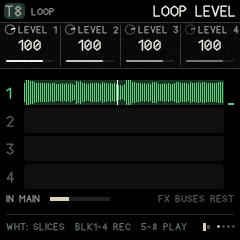
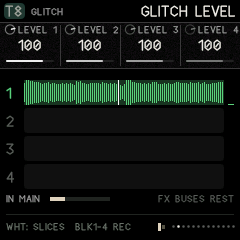
GLITCH LOOPER: the looper's new name; sections set either way
The LOOP kind is now GLITCH (GLT in the track columns), its pages GLITCH
LEVEL, PITCH, SPEED, INPUT and TRIGS.

On GLITCH TRIGS, holding a step and tapping another sets a section from the
left one to the right one, both included, in either order: the trig goes on
its first step with RANGE reaching the last, and other trigs of the same
lane and kind inside it are removed. The step keys light the chosen lane's
trigs of the chosen kind along their sections.

Claude-Session: https://claude.ai/code/session_01BwzGhPZLDZkrxZk5dy3Yyf

diff --git a/firmware/app/rv_ui.c b/firmware/app/rv_ui.c
@@ -79,10 +79,10 @@ static const page_t pages[] = {
     {SEC_VOICE, V_COMP, PIC_COMP, PR_NONE, "COMP", {TP(TP_S0), TP(TP_S1), TP(TP_S2), TP(TP_S3)}},
     {SEC_VOICE, V_COMP, PIC_COMP, PR_NONE, "COMP 2", {TP(TP_S4), TP(TP_S5), TP(TP_KIND), NO}},
     /* LOOP (a TEST build): four lanes; the keys record, play and slice them (rv_loop.c) */
-    {SEC_VOICE, V_LOOP, PIC_LOOP, PR_NONE, "LOOP LEVEL", {TP(TP_S0), TP(TP_S1), TP(TP_S2), TP(TP_S3)}},
-    {SEC_VOICE, V_LOOP, PIC_LOOP, PR_NONE, "LOOP PITCH", {TP(TP_S4), TP(TP_S5), TP(TP_S6), TP(TP_S7)}},
-    {SEC_VOICE, V_LOOP, PIC_LOOP, PR_NONE, "LOOP SPEED", {TP(TP_S8), TP(TP_S9), TP(TP_S10), TP(TP_S11)}},
-    {SEC_VOICE, V_LOOP, PIC_LOOP, PR_NONE, "LOOP INPUT", {TP(TP_S12), TP(TP_S13), TP(TP_S14), TP(TP_S15)}},
+    {SEC_VOICE, V_LOOP, PIC_LOOP, PR_NONE, "GLITCH LEVEL", {TP(TP_S0), TP(TP_S1), TP(TP_S2), TP(TP_S3)}},
+    {SEC_VOICE, V_LOOP, PIC_LOOP, PR_NONE, "GLITCH PITCH", {TP(TP_S4), TP(TP_S5), TP(TP_S6), TP(TP_S7)}},
+    {SEC_VOICE, V_LOOP, PIC_LOOP, PR_NONE, "GLITCH SPEED", {TP(TP_S8), TP(TP_S9), TP(TP_S10), TP(TP_S11)}},
+    {SEC_VOICE, V_LOOP, PIC_LOOP, PR_NONE, "GLITCH INPUT", {TP(TP_S12), TP(TP_S13), TP(TP_S14), TP(TP_S15)}},
     {SEC_VOICE, V_SRC0, PIC_SOURCE, PR_SOUND, "SOURCE 1", {TP(TP_S0), TP(TP_S1), TP(TP_S2), TP(TP_S3)}},
     {SEC_VOICE, V_SRC1, PIC_SOURCE, PR_SOUND, "SOURCE 2", {TP(TP_S4), TP(TP_S5), TP(TP_S6), TP(TP_S7)}},
     {SEC_VOICE, V_SRC2, PIC_SOURCE, PR_SOUND, "SOURCE 3", {TP(TP_S8), TP(TP_S9), TP(TP_S10), TP(TP_S11)}},
@@ -152,7 +152,7 @@ static const page_t pages[] = {
     {SEC_ARP, V_ALL, PIC_ARP, PR_NONE, "ARP 2", {TP(TP_ARPGATE), TP(TP_ARPREP), TP(TP_ARPCHNC), NO}},
 
     {SEC_SEQ, V_COMP, PIC_CLOCK, PR_NONE, "TEMPO", {GP(GP_TEMPO), GP(GP_SWING), NO, NO}},   /* (a COMP track has no steps) */
-    {SEC_SEQ, V_LOOP, PIC_LOOPSEQ, PR_STEP, "LOOP TRIGS", {{K_LP, 0}, {K_LP, 1}, {K_LP, 2}, TP(TP_LEN)}},   /* record and play trigs, per lane, with a RANGE */
+    {SEC_SEQ, V_LOOP, PIC_LOOPSEQ, PR_STEP, "GLITCH TRIGS", {{K_LP, 0}, {K_LP, 1}, {K_LP, 2}, TP(TP_LEN)}},   /* record and play trigs, per lane, with a RANGE */
     {SEC_SEQ, V_LOOP, PIC_LOOPSEQ, PR_STEP, "TRIG CHANCE", {SF(SF_CHANCE), SF(SF_COND), NO, NO}},
     {SEC_SEQ, V_LOOP, PIC_CLOCK, PR_NONE, "TEMPO", {GP(GP_TEMPO), GP(GP_SWING), TP(TP_LEN), TP(TP_RATE)}},
     {SEC_SEQ, V_KIT, PIC_DRUM, PR_PATTERN, "DRUM", {LF(LF_SEL), LF(LF_LEN), LF(LF_RATE), LF(LF_CHANCE)}},   /* (SWING: GLO > CLOCK) */
@@ -1767,7 +1767,7 @@ static void knob_turn(int i, int d)
             nv += d > 0 ? 1 : -1;                     /* (COMP is T8's alone) */
         if (k.kind == K_TP && k.id == TP_KIND && nv >= KIND_LOOP && other_loop_track(ui.track)) {
             nv = rv.tp[ui.track][TP_KIND];            /* (one LOOP track at a time: it holds the buses' memory) */
-            msg("ONE LOOP TRACK AT A TIME");
+            msg("ONE GLITCH LOOPER AT A TIME");
         }
         kb_set(k, nv);
         page_follow(gp);
@@ -2133,30 +2133,45 @@ static void key_event(int k, int on)
                 if (loop_track_ui(t) && !ui.step_turned) {   /* LOOP: a trig on, or off; a step still held: a range */
                     int si = ui.step_page * 16 + wi, l = ui.lp_lane & 3, bit = 1 << (l + (ui.lp_type ? 4 : 0));
                     int len = clampi(rv.tp[t][TP_LEN], 1, RV_STEPS);
-                    if (ui.step_key_held) {           /* held first (a key further on): from it to this one */
-                        int f = 0, fs, n;
-                        rv_step *fsp;
+                    if (ui.step_key_held) {           /* a step held, then another: the section between them, both
+                                                       * ends in; it starts on the left one (its trig), the RANGE
+                                                       * reaches the right one, and no other trig of this lane and
+                                                       * kind is left inside it */
+                        int f = 0, fs, st, n, j;
+                        rv_step *sp;
                         while (!((ui.step_key_held >> f) & 1u))
                             f++;
                         fs = ui.step_page * 16 + f;
-                        n = ((si - fs) % len + len) % len + 1;
-                        fsp = step_ptr(fs);
-                        if (!(fsp->flags & ST_ON)) {
-                            fsp->chance = 100;
-                            fsp->cond = 0;
+                        st = si < fs ? si : fs;
+                        n = (si < fs ? fs - si : si - fs) + 1;
+                        if (st + n > len)
+                            n = len - st > 0 ? len - st : 1;
+                        for (j = st; j < st + n && j < RV_STEPS; j++) {   /* (the other trigs in it go) */
+                            sp = step_ptr(j);
+                            if (j == st || !(sp->note & bit))
+                                continue;
+                            sp->note &= (uint8_t)~bit;
+                            if (!sp->note)
+                                sp->flags &= (uint8_t)~ST_ON;
                         }
-                        fsp->note |= (uint8_t)bit;
-                        fsp->flags |= ST_ON;
-                        lp_range_set(fsp, l, n);
-                        ui.step_turned = 1;           /* (its own let-go is no tap) */
+                        sp = step_ptr(st);
+                        if (!(sp->flags & ST_ON)) {
+                            sp->chance = 100;
+                            sp->cond = 0;
+                            sp->note = 0;
+                        }
+                        sp->note |= (uint8_t)bit;
+                        sp->flags |= ST_ON;
+                        lp_range_set(sp, l, n);
+                        ui.step_turned = 1;           /* (the held one's let-go is no tap) */
                         {
                             char b[28] = "LANE ";
                             b[5] = (char)('1' + l);
                             b[6] = 0;
                             sx_cat(b, ui.lp_type ? " REC " : " PLAY ");
-                            sx_int(b + sx_cat(b, ""), fs + 1);
+                            sx_int(b + sx_cat(b, ""), st + 1);
                             sx_cat(b, "-");
-                            sx_int(b + sx_cat(b, ""), (fs + n - 1) % len + 1);
+                            sx_int(b + sx_cat(b, ""), st + n);
                             msg(b);
                         }
                         return;
@@ -3168,7 +3183,7 @@ static void pic_tracks(void)
         b[0] = (char)('1' + t);
         b[1] = 0;
         g_text_c(cx, PIC_Y + 2, &FONT_B, b, t == ui.track ? C_WHITE : kc);
-        g_text_c(cx, PIC_Y + 20, &FONT_T, rv.tp[t][TP_KIND] == KIND_SYNTH ? "SYN" : rv.tp[t][TP_KIND] == KIND_STRIKE ? "STK" : rv.tp[t][TP_KIND] == KIND_PERC ? "PRC" : rv.tp[t][TP_KIND] == KIND_LOOP ? "LOOP" : "CMP", muted ? C_DIM : kc);
+        g_text_c(cx, PIC_Y + 20, &FONT_T, rv.tp[t][TP_KIND] == KIND_SYNTH ? "SYN" : rv.tp[t][TP_KIND] == KIND_STRIKE ? "STK" : rv.tp[t][TP_KIND] == KIND_PERC ? "PRC" : rv.tp[t][TP_KIND] == KIND_LOOP ? "GLT" : "CMP", muted ? C_DIM : kc);
         /* the level, in the track's colour, and beside it the articulation (its envelope) */
         meter_bar(x + 6, PIC_Y + 32, 11, 66, fm_sqrtf(rv_live.meter[t]), C_LINE, muted ? C_DIM : kc);
         meter_bar(x + 19, PIC_Y + 32, 6, 66, rv_live.env[t], C_LINE, muted ? C_DIM : g_mix(kc, C_INK, 0.55f));
@@ -5028,7 +5043,7 @@ static void pic_mutes(void)
         b[0] = (char)('1' + t);
         b[1] = 0;
         g_text_c(x + 14, y + 6, &FONT_B, b, out ? C_DIM : t == ui.track ? C_WHITE : kc);
-        g_text_c(x + 14, y + 24, &FONT_T, k == KIND_SYNTH ? "SYN" : k == KIND_STRIKE ? "STK" : k == KIND_PERC ? "PRC" : k == KIND_LOOP ? "LOOP" : "CMP", fc);
+        g_text_c(x + 14, y + 24, &FONT_T, k == KIND_SYNTH ? "SYN" : k == KIND_STRIKE ? "STK" : k == KIND_PERC ? "PRC" : k == KIND_LOOP ? "GLT" : "CMP", fc);
         meter_bar(x + 9, y + 38, 10, 40, out ? 0.0f : fm_sqrtf(rv_live.meter[t]), C_LINE, fc);
         g_text_c(x + 14, y + 84, &FONT_T, muted ? "MUTE" : solo ? "SOLO" : out ? "-" : "ON", muted ? C_RED : solo ? C_TRIG : fc);
     }
@@ -5272,9 +5287,22 @@ static void leds(void)
     if (ui.sec == SEC_SEQ || (plat_buttons() & (1u << B_SEQ))) {
         const rv_pattern *p = &rv.pat[t][rv.pat_cur[t] % RV_PATTERNS];
         int kit = is_kit_ui(t), l = ui.lane[t] % RV_LANES;
+        uint8_t lit[RV_STEPS / 8] = {0};
+        if (loop_track_ui(t)) {                       /* a GLITCH LOOPER: the chosen lane's trigs of the chosen kind,
+                                                       * each lit over its section */
+            int ll = ui.lp_lane & 3, bit = 1 << (ll + (ui.lp_type ? 4 : 0)), len = clampi(rv.tp[t][TP_LEN], 1, RV_STEPS), j, r;
+            for (i = 0; i < len; i++)
+                if ((p->s[i].flags & ST_ON) && (p->s[i].note & bit)) {
+                    r = lp_range_get(&p->s[i], ll);
+                    for (j = i; j < (r > 0 ? i + r : i + 1) && j < len; j++)
+                        lit[j >> 3] |= (uint8_t)(1u << (j & 7));
+                }
+        }
         for (i = 0; i < 16; i++) {
             int si = ui.step_page * 16 + i, on = kit ? (p->s[si].flags & ST_ON) && ((p->s[si].note >> l) & 1) : (p->s[si].flags & ST_ON) != 0;
             int here = kit ? rv_live.playing && si == rv_live.lane_step[t][l] : si == rv_live.step[t][0];
+            if (loop_track_ui(t))
+                on = (lit[si >> 3] >> (si & 7)) & 1;
             if (ui.srec_t == t && si == rv_live.srec_step)
                 on = (plat_ms() / 200u) & 1u, here = 0;   /* step recording: the cursor's key blinks */
             if (on ^ here)

diff --git a/firmware/app/rv_params.c b/firmware/app/rv_params.c
@@ -6,7 +6,7 @@
 #include "rv_organ.h"
 
 /* ------------------------------------------------------------------ names --- */
-const char *const rv_kind_names[] = {"SYNTH", "STRIKE", "TAPE", "PERC", "COMP", "LOOP"};
+const char *const rv_kind_names[] = {"SYNTH", "STRIKE", "TAPE", "PERC", "COMP", "GLITCH"};
 const char *const rv_engine_names[] = {"VA", "CZ", "FM", "PHYS", "FORMANT", "PARTICLE", "CHIP", "WAVE", "LOGIC", "ORGAN", "MONO", "RESIN", "TINE"};
 const char *const rv_route_names[] = {"-", "MOD", "TRIG", "EXCITE", "TAPE", "CLOCK", "RING", "SPARK"};
 const char *const rv_msrc_names[] = {"OFF", "LFO1", "LFO2", "DUST", "ENV", "VELO", "WHEEL", "MACRO1", "MACRO2", "MACRO3", "MACRO4", "CLOCK", "KEY", "TOUCH", "BEND"};

diff --git a/firmware/app/rv_bank.c b/firmware/app/rv_bank.c
@@ -215,7 +215,7 @@ int rv_bank_is_kit(int i) { return rv_bank_used(i) && bank_is_kit(bank.s[i].kind
 /* a sound's kind, for lists: SYNTH, STRIKE, TAPE, PERC or KIT */
 const char *rv_bank_kind_label(int i)
 {
-    static const char *const k[KIND_N] = {"SYNTH", "STRIKE", "TAPE", "PERC", "COMP", "LOOP"};
+    static const char *const k[KIND_N] = {"SYNTH", "STRIKE", "TAPE", "PERC", "COMP", "GLITCH"};
     if (!rv_bank_used(i))
         return "";
     if (rv_bank_is_kit(i))

diff --git a/README.md b/README.md
@@ -196,7 +196,7 @@ Ravel has **8 tracks**. Each track is one of three kinds, and any track can be a
 | **STRIKE** | An exciter hitting a resonant body: drums, metal, wood, rain on glass | T5–T6 |
 | **PERC** | A drum machine: 33 machines after the Elektron Machinedrum (TRX, EFM, P-I, GND). It starts as a KIT, six machines in lanes sequenced together on one track; MODE SINGLE is one machine played by notes. | T7 (a kit), T8 (one drum); any track can be PERC |
 | **COMP** | T8 only, and only when you choose it: not a voice, but a bus compressor on the main mix (see [T8 as COMP](#t8-as-comp-the-bus-compressor)) | – |
-| **LOOP** | **TEST build only.** Four lanes of recorded audio, played back and overdubbed (see [LOOP](#loop-the-looper-test-build)). One track at most; the effects buses rest while it is on (it can keep SPACE or DELAY running) | – |
+| **GLITCH** | **TEST build only.** Four lanes of recorded audio, played back and overdubbed (see [GLITCH LOOPER](#glitch-looper-test-build)). One track at most; the effects buses rest while it is on (it can keep SPACE or DELAY running) | – |
 
 How the sound flows:
 
@@ -225,7 +225,7 @@ The current track is highlighted.
 | --- | --- |
 | 1 **LEVEL** | Track volume, 0–127 |
 | 2 **PAN** | −64 left to +63 right |
-| 3 **KIND** | SYNTH, STRIKE or PERC (on T8 also COMP; on the TEST build also LOOP). **Changing it resets the track to that kind's defaults.** |
+| 3 **KIND** | SYNTH, STRIKE or PERC (on T8 also COMP; on the TEST build also GLITCH, the GLITCH LOOPER). **Changing it resets the track to that kind's defaults.** |
 | 4 **ENGINE** | For synth tracks: VA, CZ, FM, PHYS, FORMANT, PARTICLE, CHIP, WAVE, LOGIC, ORGAN, MONO, RESIN, TINE |
 
 **ALGORITHM** picks the track; **PRESETS** loads a sound of the track's kind.
@@ -245,13 +245,13 @@ The meter falls from the top as it squeezes (0 to 20 dB of gain reduction); besi
 
 The matrix and macros can move its knobs like any track's (THRESH on an LFO pumps). A scene or a sound loaded onto T8 can change its kind like any track's.
 
-### LOOP: the looper (TEST build)
+### GLITCH LOOPER (TEST build)
 
-<p align="center"><img src="docs/manual/loop.png" alt="LOOP: the four lanes" width="320"> <img src="docs/manual/loopseq.png" alt="LOOP TRIGS" width="320"></p>
+<p align="center"><img src="docs/manual/loop.png" alt="GLITCH LOOPER: the four lanes" width="320"> <img src="docs/manual/loopseq.png" alt="GLITCH TRIGS" width="320"></p>
 
 > This is in the **TEST** firmware only (listed as TEST in the installer). It is new and has not been played much on hardware yet.
 
-Turn **KIND** to **LOOP** on any one track (EDIT › SOUND, KNOB 1, or HOME › TRACKS, KNOB 3; turn it back the same way to remove the looper). It plays nothing of its own: it records what you hear into **four lanes** and plays them back, each lane overdubbing as it records. EDIT keeps its SOUND page (KIND; the other knobs greyed), and the looper's pages follow it.
+Turn **KIND** to **GLITCH** on any one track (EDIT › SOUND, KNOB 1, or HOME › TRACKS, KNOB 3; turn it back the same way to remove the looper). It plays nothing of its own: it records what you hear into **four lanes** and plays them back, each lane overdubbing as it records. EDIT keeps its SOUND page (KIND; the other knobs greyed), and the looper's pages follow it.
 
 #### Step by step
 
@@ -260,16 +260,16 @@ The keys below are counted from the left: **black key 1** is the first black key
 **Your first loop**
 
 1. Get something playing: load a demo (SAVE › DEMO) or your project, and press **PLAY**.
-2. With **ALGORITHM**, pick a track you aren't using (T8, say). Press **EDIT**: the first page is **SOUND**. Turn **KNOB 1 (KIND)** until it reads **LOOP** (if the track had steps, the screen asks you to turn again). The effects stop; the screen's bottom line says FX BUSES REST.
-3. Turn **SELECT** one page to **LOOP LEVEL**: four empty lanes.
+2. With **ALGORITHM**, pick a track you aren't using (T8, say). Press **EDIT**: the first page is **SOUND**. Turn **KNOB 1 (KIND)** until it reads **GLITCH** (if the track had steps, the screen asks you to turn again). The effects stop; the screen's bottom line says FX BUSES REST.
+3. Turn **SELECT** one page to **GLITCH LEVEL**: four empty lanes.
 4. Press **black key 1**. Lane 1 records (a red line runs along it) and plays what it has recorded, in time.
 5. Let it go round once (16 steps, a bar, unless you change LENGTH on SEQ), then press **black key 1** again. It stops recording and keeps playing.
 6. Mute the tracks you recorded (GLO › MUTE / SOLO, white keys 1–8) to hear the loop on its own, then bring them back in.
 
 **Shape it**
 
-7. **LOOP LEVEL**, **LOOP PITCH** and **LOOP SPEED** have a knob a lane: PITCH transposes without changing the time, SPEED changes the time (1/4 to 2, or REV) without changing the pitch.
-8. **Overdub:** press black key 1 again while the lane plays and play over it. **OVERDUB** (LOOP INPUT, KNOB 3) is how much of the old stays: 127 keeps all of it, 100 (the default) lets it fade a little each pass, 0 replaces it.
+7. **GLITCH LEVEL**, **GLITCH PITCH** and **GLITCH SPEED** have a knob a lane: PITCH transposes without changing the time, SPEED changes the time (1/4 to 2, or REV) without changing the pitch.
+8. **Overdub:** press black key 1 again while the lane plays and play over it. **OVERDUB** (GLITCH INPUT, KNOB 3) is how much of the old stays: 127 keeps all of it, 100 (the default) lets it fade a little each pass, 0 replaces it.
 9. **More lanes:** black keys 2–4 record lanes 2–4; black keys 5–8 start and stop lanes 1–4 playing.
 
 **Play slices**
@@ -279,29 +279,29 @@ The keys below are counted from the left: **black key 1** is the first black key
 
 **Wait for the sound**
 
-12. On **LOOP INPUT**, turn **THRESH** (KNOB 2) up. Now black key 1 only arms the lane; it starts writing when the sound gets that loud, so a take starts on the first hit.
+12. On **GLITCH INPUT**, turn **THRESH** (KNOB 2) up. Now black key 1 only arms the lane; it starts writing when the sound gets that loud, so a take starts on the first hit.
 
 **Record with reverb (or delay)**
 
-13. On **LOOP INPUT**, turn **LOOPER** (KNOB 4) to **+SPACE** (or **+DELAY**). The lanes empty and get a little shorter; SPACE keeps running.
+13. On **GLITCH INPUT**, turn **LOOPER** (KNOB 4) to **+SPACE** (or **+DELAY**). The lanes empty and get a little shorter; SPACE keeps running.
 14. Send the tracks into SPACE as usual (each track's EDIT › MIX or SENDS) and record from **SOURCE MAIN**: the reverb goes into the loop.
 
 **Sequence it** (the transport must be playing)
 
-15. Press **SEQ**: the **LOOP TRIGS** page. **KNOB 1** (or black keys 3–6) picks the lane, **KNOB 2** the trig: **REC** or **PLAY**.
+15. Press **SEQ**: the **GLITCH TRIGS** page. **KNOB 1** (or black keys 3–6) picks the lane, **KNOB 2** the trig: **REC** or **PLAY**.
 16. With TRIG on REC, tap **white key 1**: each time the pattern reaches step 1, that lane records the whole loop. Tap it again to remove it.
-17. With TRIG on PLAY, tap a step: the lane plays from there. **Hold a step and tap a later one** for a range: PLAY on step 9 to step 12 plays just steps 9–12 of the lane, round and round, until another trig moves it (MLR-style). A REC range records into just those steps.
+17. With TRIG on PLAY, tap a step: the lane plays from there. For a section, **hold one step and tap another**: the section runs from the left one to the right one, both included, whichever you held first (hold 9 and tap 12, or hold 12 and tap 9: steps 9–12). The trig goes on its first step, RANGE (KNOB 3) is set to reach the last, and the keys light along it. A PLAY section plays just those steps of the lane, round and round, until another trig moves it (MLR-style); a REC section records into just those steps. Any other trig of the same lane and kind inside it is removed.
 
 **Clear, and get the effects back**
 
 18. **Hold black key 9 and press a record key** (black 1–4) to clear that lane. **Press black key 11 twice** to clear all four.
 19. To have every effect back: **LOOPER** to **OFF** (the track keeps its settings and trigs; the loops are gone), or turn **KIND** back on EDIT › SOUND.
 
-Recordings are not saved with the project: save keeps the LOOP track's settings and trigs, and the lanes start empty.
+Recordings are not saved with the project: save keeps the GLITCH LOOPER's settings and trigs, and the lanes start empty.
 
 #### Reference
 
-**The memory.** The FM-1 has no RAM to spare, so the lanes borrow the effects buses' memory, and the effects whose memory they hold stand still. **LOOPER** (LOOP INPUT, KNOB 4) says how much they take:
+**The memory.** The FM-1 has no RAM to spare, so the lanes borrow the effects buses' memory, and the effects whose memory they hold stand still. **LOOPER** (GLITCH INPUT, KNOB 4) says how much they take:
 
 | LOOPER | The effects | A lane holds | 16 steps at 120 BPM |
 | --- | --- | --- | --- |
@@ -312,20 +312,20 @@ Recordings are not saved with the project: save keeps the LOOP track's settings 
 
 The lanes are stored 8-bit, spread over the loop's LENGTH: lo-fi on purpose, and a short loop at a quick tempo sounds clearer than a long, slow one. **Every change of LOOPER empties the lanes** (their memory is laid out again, or handed back), and an effect handed back starts clean. The screen's bottom line says what is running.
 
-**Recording with an effect:** set LOOPER to +SPACE (or +DELAY), send the tracks into it as usual, and record from MAIN: the reverb (or the echoes) go into the loop. Then, to play with every effect again, turn LOOPER to OFF; the loops are gone, but the track keeps its settings and trigs, ready for the next take. The LOOP track's own playback is dry: it sends nothing into the effects.
+**Recording with an effect:** set LOOPER to +SPACE (or +DELAY), send the tracks into it as usual, and record from MAIN: the reverb (or the echoes) go into the loop. Then, to play with every effect again, turn LOOPER to OFF; the loops are gone, but the track keeps its settings and trigs, ready for the next take. The GLITCH LOOPER's own playback is dry: it sends nothing into the effects.
 
-**What it records.** SOURCE MAIN (the default) is the main mix, with whatever effect LOOPER keeps running, without the LOOP track itself, so it never records its own playback. SOURCE T1–T8 records one track, after its own effects. The FM-1 has no audio input, so the looper can only record Ravel.
+**What it records.** SOURCE MAIN (the default) is the main mix, with whatever effect LOOPER keeps running, without the GLITCH LOOPER itself, so it never records its own playback. SOURCE T1–T8 records one track, after its own effects. The FM-1 has no audio input, so the looper can only record Ravel.
 
 | Page | KNOB 1 | KNOB 2 | KNOB 3 | KNOB 4 |
 | --- | --- | --- | --- | --- |
-| **LOOP LEVEL** | LEVEL 1 | LEVEL 2 | LEVEL 3 | LEVEL 4 |
-| **LOOP PITCH** | PITCH 1 (±24 semitones) | PITCH 2 | PITCH 3 | PITCH 4 |
-| **LOOP SPEED** | SPEED 1: 1/4, 1/2, 3/4, 1, 3/2, 2, REV | SPEED 2 | SPEED 3 | SPEED 4 |
-| **LOOP INPUT** | SOURCE: MAIN, T1–T8 | THRESH: 0 records at once; above 0, an armed lane waits until the sound is that loud | OVERDUB: how much of the old stays under the new (0 replaces it) | LOOPER: OFF, ON, +SPACE, +DELAY (see above) |
+| **GLITCH LEVEL** | LEVEL 1 | LEVEL 2 | LEVEL 3 | LEVEL 4 |
+| **GLITCH PITCH** | PITCH 1 (±24 semitones) | PITCH 2 | PITCH 3 | PITCH 4 |
+| **GLITCH SPEED** | SPEED 1: 1/4, 1/2, 3/4, 1, 3/2, 2, REV | SPEED 2 | SPEED 3 | SPEED 4 |
+| **GLITCH INPUT** | SOURCE: MAIN, T1–T8 | THRESH: 0 records at once; above 0, an armed lane waits until the sound is that loud | OVERDUB: how much of the old stays under the new (0 replaces it) | LOOPER: OFF, ON, +SPACE, +DELAY (see above) |
 
 PITCH and SPEED are apart: SPEED changes how fast the loop runs, and PITCH transposes it without changing its time (a two-grain stretch). Both can be moved by the LFOs and the matrix.
 
-**Playing it by hand** (on the LOOP pages):
+**Playing it by hand** (with the GLITCH LOOPER's track chosen, on any page but SEQ):
 
 - **Black keys 1–4** record lanes 1–4: one tap starts (or arms, with THRESH above 0), the next stops. A lane that records also plays, the loop's whole length, in time.
 - **Black keys 5–8** start and stop lanes 1–4 playing.
@@ -336,14 +336,14 @@ PITCH and SPEED are apart: SPEED changes how fast the loop runs, and PITCH trans
 
 | Page | KNOB 1 | KNOB 2 | KNOB 3 | KNOB 4 |
 | --- | --- | --- | --- | --- |
-| **LOOP TRIGS** | LANE: the lane the keys write | TRIG: PLAY or REC | RANGE: how many steps the trig plays or records (0: the whole loop) | LENGTH of the loop |
+| **GLITCH TRIGS** | LANE: the lane the keys write | TRIG: PLAY or REC | RANGE: how many steps the trig plays or records (0: the whole loop) | LENGTH of the loop |
 | **TRIG CHANCE** | CHANCE | CONDITN | – | – |
 
 - **Tap a step** to place or remove a trig of the chosen kind on the chosen lane; **black keys 3–6** choose the lane.
-- **Hold a step and tap a later one** to set a range (MLR-style): REC on step 5 with a range to 11 records into steps 5–11 and stops; PLAY on step 8 with a range to 14 plays steps 8–14 of that lane, looping that stretch until another trig moves it.
+- **Hold a step and tap another** to set a section (MLR-style), from the left one to the right one, both included, in either order: REC over steps 5–11 records into them and stops; PLAY over steps 8–14 plays that stretch of the lane, looping it until another trig moves it. The trig sits on the section's first step with its RANGE reaching the last; other trigs of the same lane and kind inside it go. On SEQ the keys light the chosen lane's trigs of the chosen kind (TRIG), each along its section.
 - A REC trig with THRESH above 0 waits for the sound before it writes.
 
-The recordings are not saved: a project keeps the LOOP track's settings and trigs, and its lanes start empty when it loads or the FM-1 starts. The loop's clock follows the LOOP track's sequencer while it plays, and keeps running at the tempo while stopped. If you go back to the normal firmware (v1.5.1 or later), a project's LOOP track loads as a blank synth, its steps cleared.
+The recordings are not saved: a project keeps the GLITCH LOOPER's settings and trigs, and its lanes start empty when it loads or the FM-1 starts. The loop's clock follows the GLITCH LOOPER's sequencer while it plays, and keeps running at the tempo while stopped. If you go back to the normal firmware (v1.5.1 or later), a project's GLITCH LOOPER loads as a blank synth, its steps cleared.
 
 ### INFLUENCE
 
